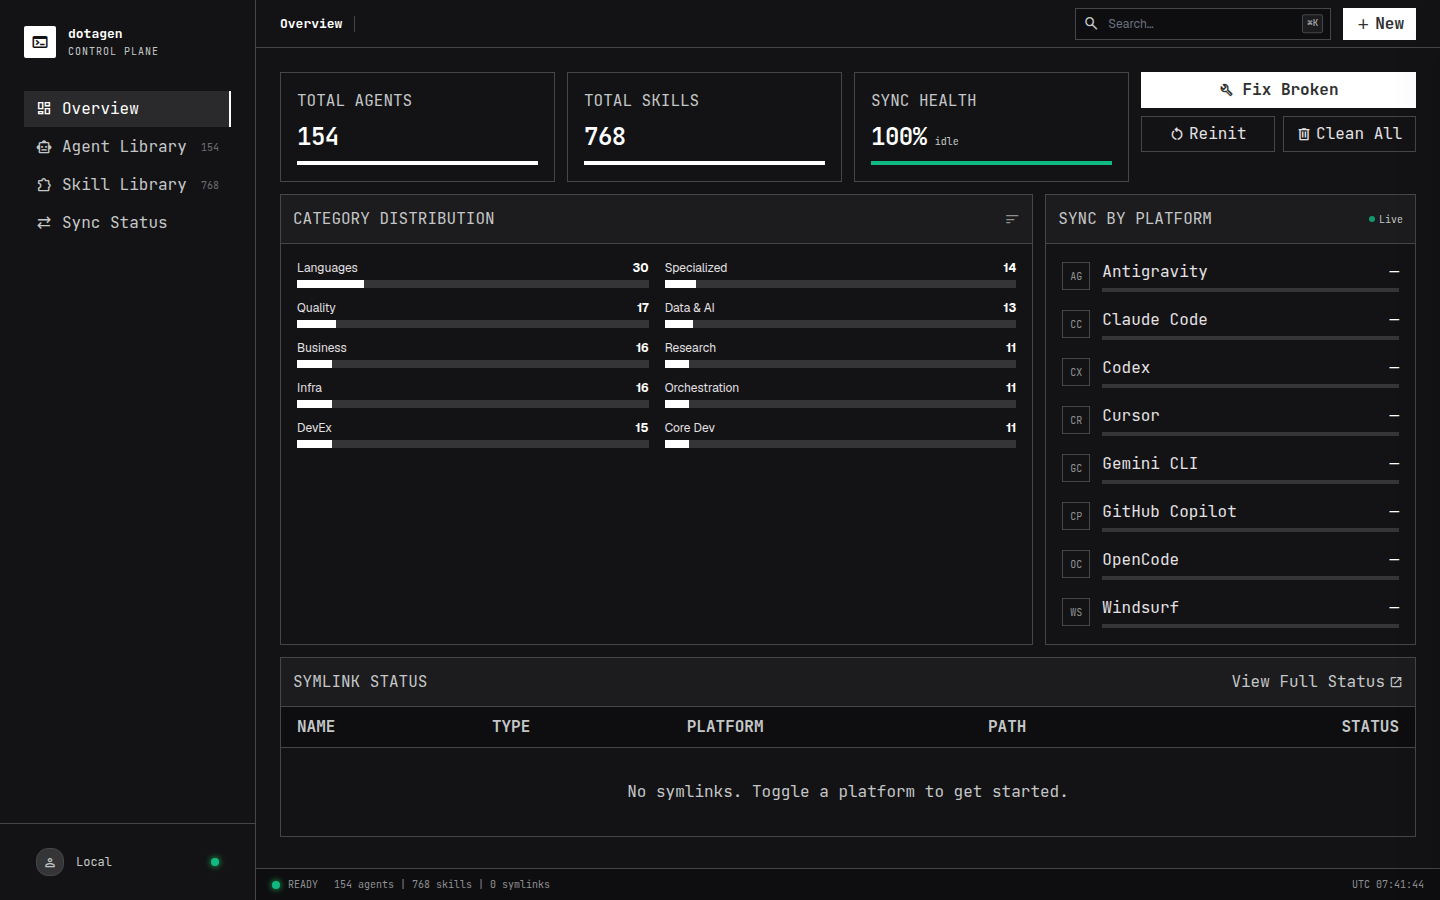
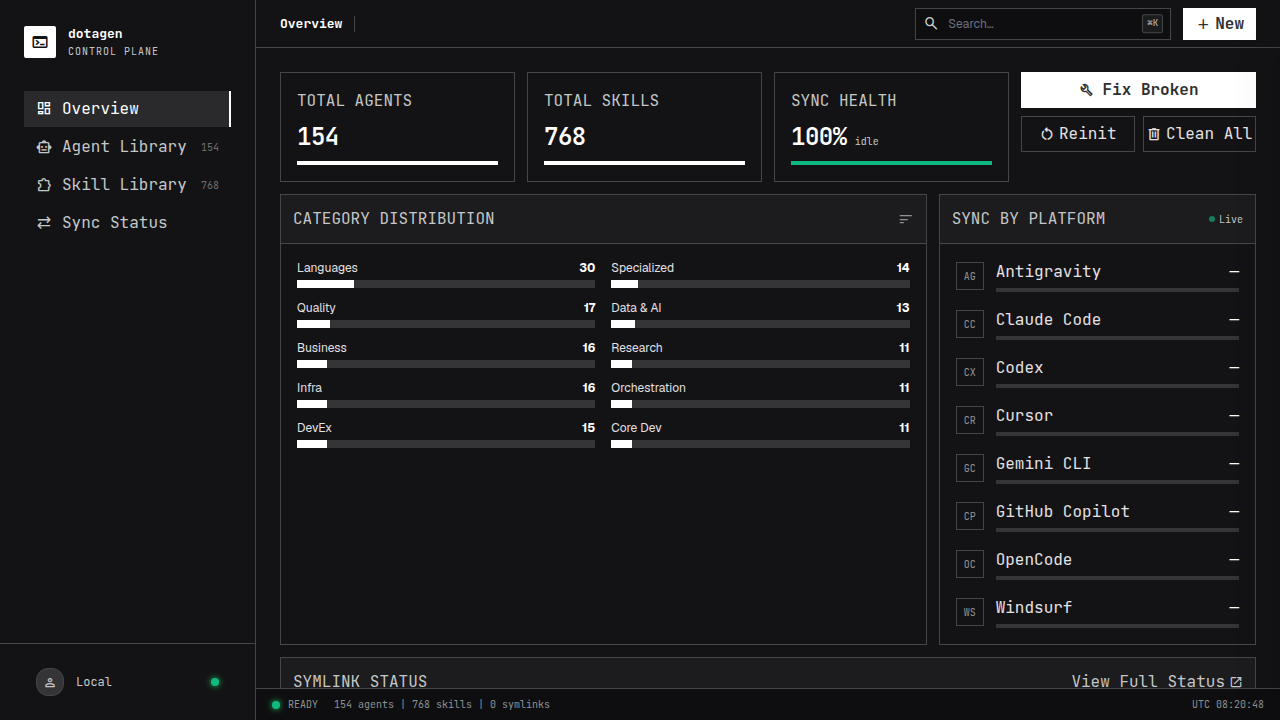
fix: use absolute GitHub URLs for screenshots, resize to 1280x720

diff --git a/README.md b/README.md
@@ -2,7 +2,7 @@
 
 > **Define sub-agents and skills once, inject everywhere.**
 
-![Overview](docs/screenshots/overview.png)
+![Overview](https://github.com/enolalabs/dotagen/blob/main/docs/screenshots/overview.png?raw=true)
 
 `dotagen` is a Go CLI tool that lets you define coding sub-agents and skills **once** in Markdown and automatically distribute them across multiple coding agent platforms (Antigravity, Claude Code, Codex, Cursor, Gemini CLI, GitHub Copilot, OpenCode, Windsurf).
 
@@ -334,28 +334,28 @@ Starts a web dashboard at `http://localhost:7890` with the following features:
 <details>
 <summary><strong>Overview Dashboard</strong></summary>
 
-![Overview](docs/screenshots/overview.png)
+![Overview](https://github.com/enolalabs/dotagen/blob/main/docs/screenshots/overview.png?raw=true)
 
 </details>
 
 <details>
 <summary><strong>Agent Library (Matrix View)</strong></summary>
 
-![Agent Library](docs/screenshots/agent-library.png)
+![Agent Library](https://github.com/enolalabs/dotagen/blob/main/docs/screenshots/agent-library.png?raw=true)
 
 </details>
 
 <details>
 <summary><strong>Skill Library (Matrix View)</strong></summary>
 
-![Skill Library](docs/screenshots/skill-library.png)
+![Skill Library](https://github.com/enolalabs/dotagen/blob/main/docs/screenshots/skill-library.png?raw=true)
 
 </details>
 
 <details>
 <summary><strong>Symlink Status</strong></summary>
 
-![Status](docs/screenshots/status.png)
+![Status](https://github.com/enolalabs/dotagen/blob/main/docs/screenshots/status.png?raw=true)
 
 </details>
 
